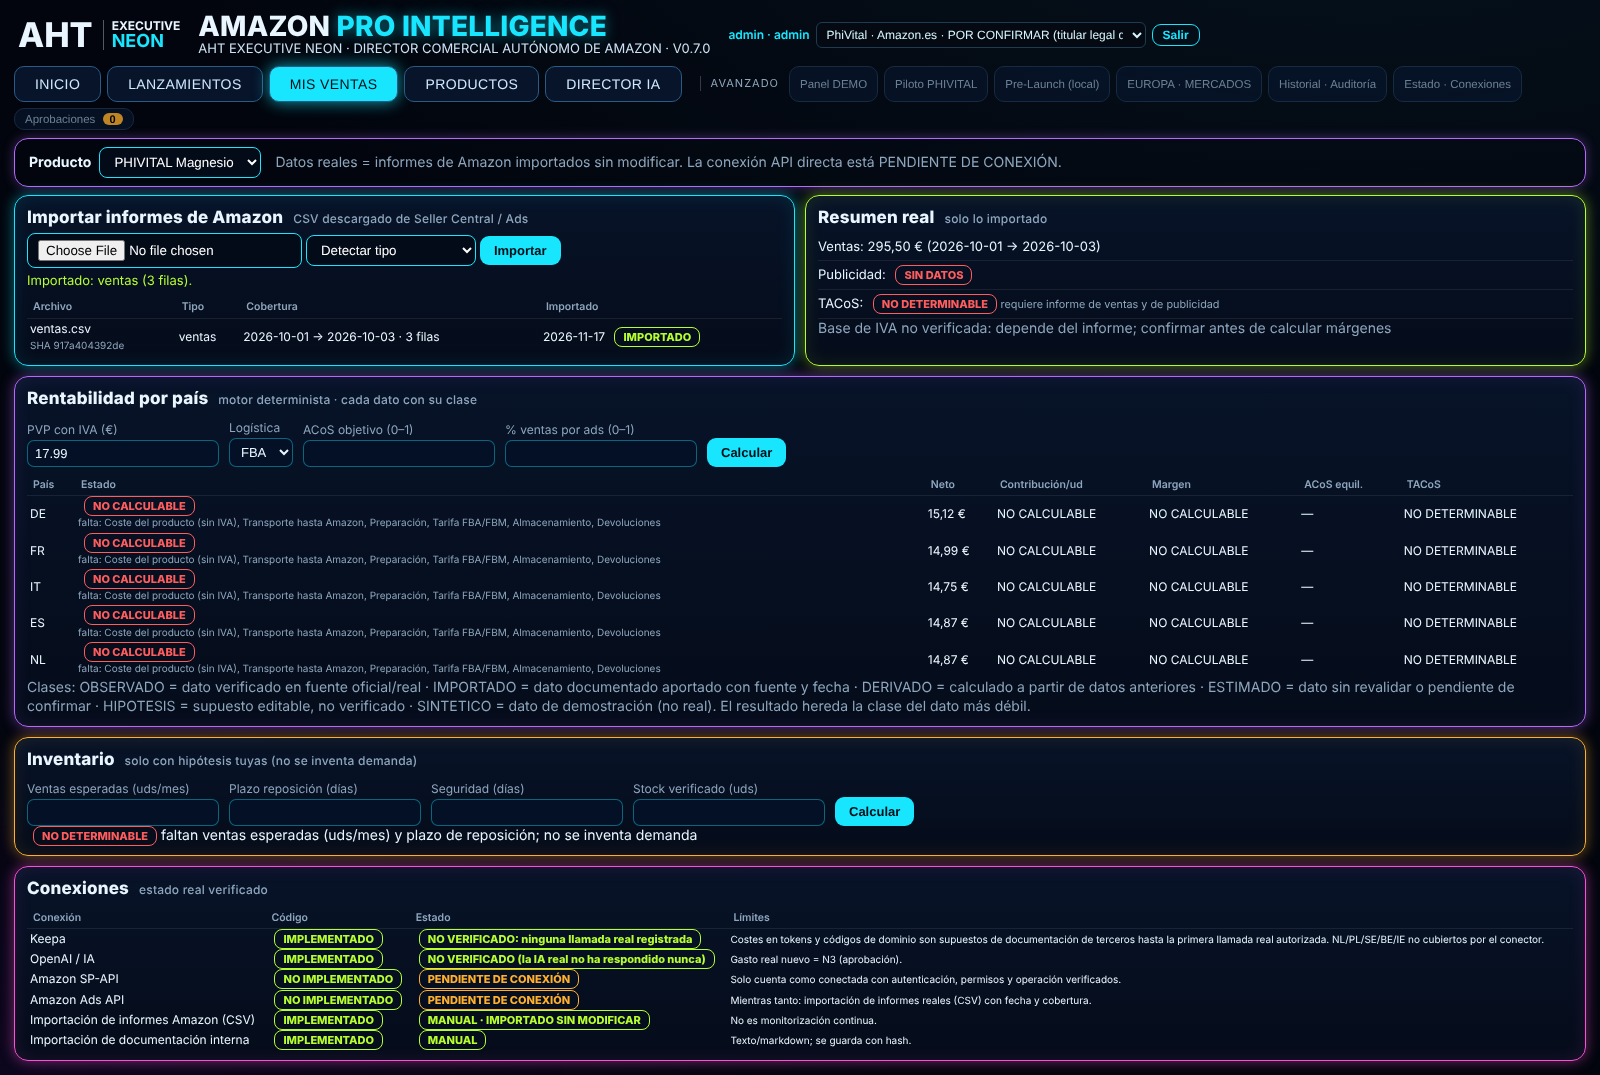
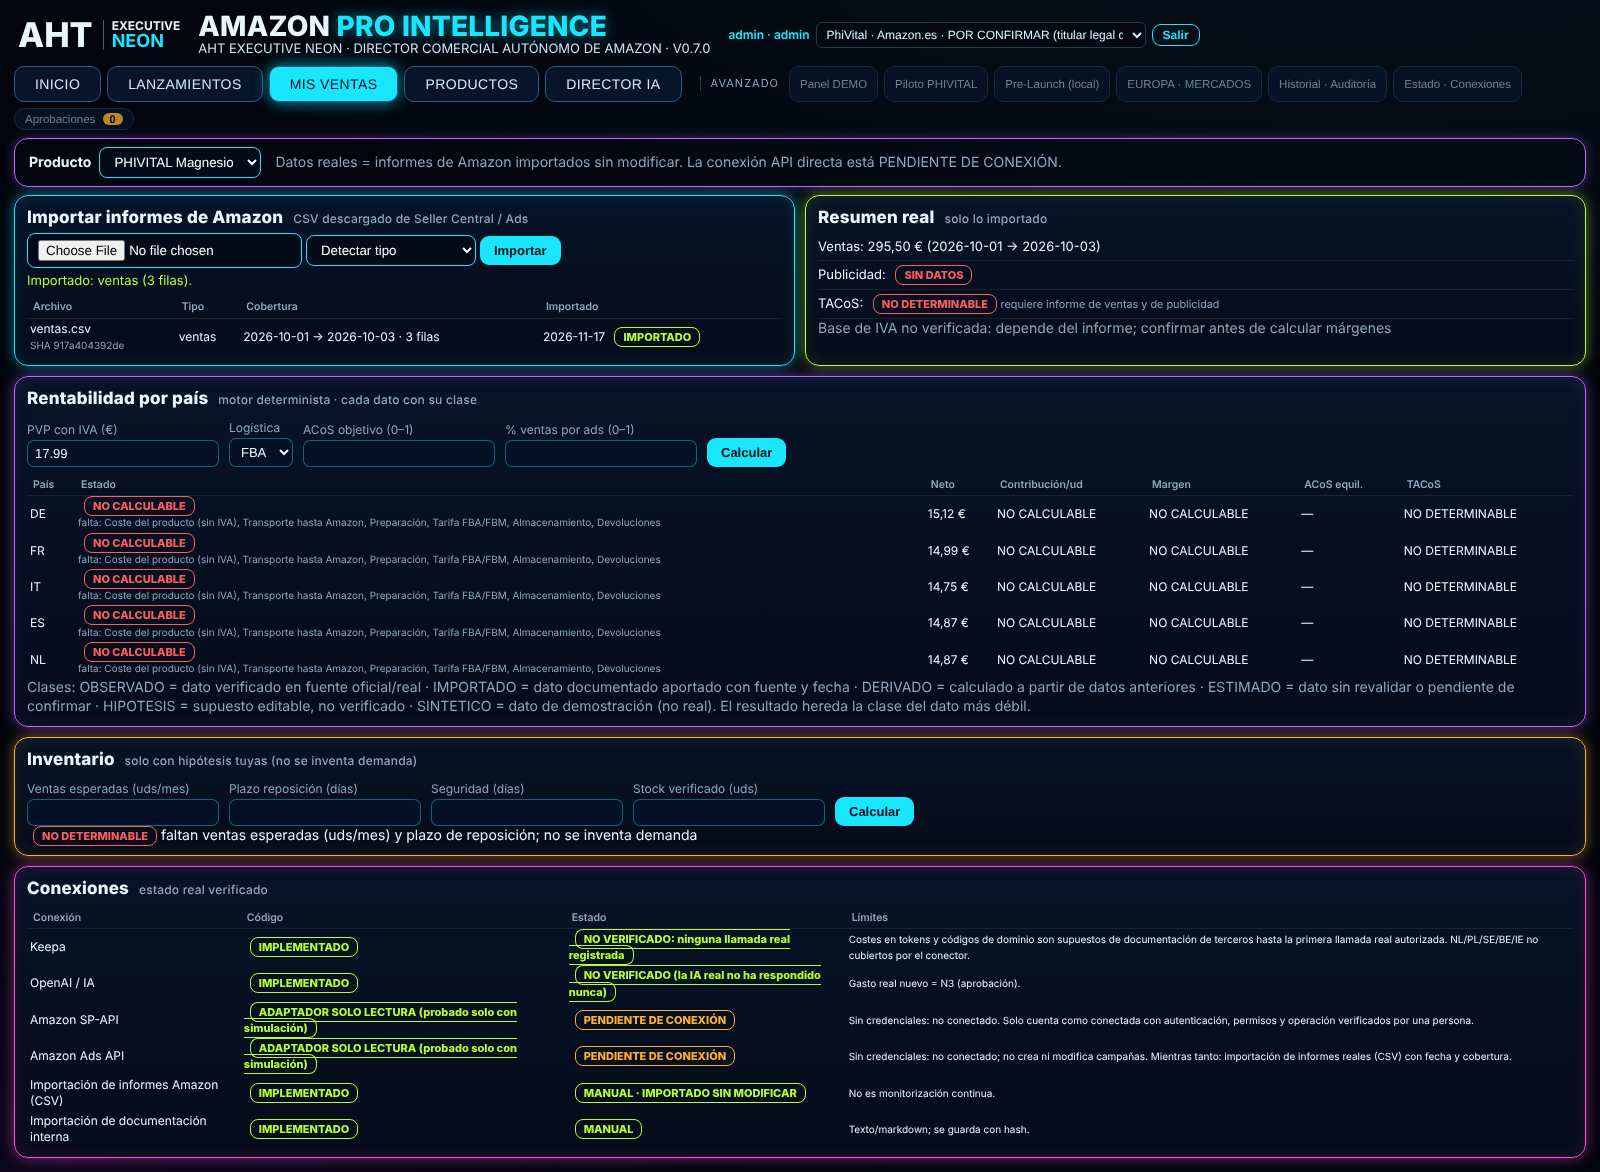
V1-13: adaptadores SP-API y Ads API de solo lectura, probados solo con simulación (16/16)

Changed region(s): [[0.0, 0.0, 1.0, 1.0], [0.8125, 0.3991, 0.8438, 0.4605]]

diff --git a/amazon-pro-intelligence-v0.6.0-validacion-keepa/tests/v100_conectores_test.py b/amazon-pro-intelligence-v0.6.0-validacion-keepa/tests/v100_conectores_test.py
@@ -1,0 +1,43 @@
+"""V1.0 · V1-13 — Adaptadores SP-API / Ads API (solo lectura). Pruebas SIMULADAS (servidor local 127.0.0.1), identificadas como tales. NO prueban conexión real con Amazon."""
+import json, os, socket, sys, threading
+from http.server import BaseHTTPRequestHandler, HTTPServer
+ROOT = os.path.dirname(os.path.dirname(os.path.abspath(__file__))); sys.path.insert(0, ROOT)
+R = []
+def check(n, c): R.append(bool(c)); print(("OK   " if c else "FAIL ") + n)
+_rc = socket.socket.connect; EXT = []
+def _no_net(self, addr, *a, **k):
+    if addr[0] not in ("127.0.0.1", "localhost", "::1"): EXT.append(addr); raise AssertionError("RED PROHIBIDA %r" % (addr,))
+    return _rc(self, addr, *a, **k)
+socket.socket.connect = _no_net
+from backend import conectores100 as C
+VISTO = []
+class H(BaseHTTPRequestHandler):
+    def do_GET(self): VISTO.append((self.command, self.path, self.headers.get("Authorization"))); self.send_response(200); self.send_header("Content-Type", "application/json"); self.end_headers(); self.wfile.write(json.dumps({"simulado": True, "ruta": self.path}).encode())
+    def log_message(self, *a): pass
+srv = HTTPServer(("127.0.0.1", 0), H); threading.Thread(target=srv.serve_forever, daemon=True).start(); base = "http://127.0.0.1:%d" % srv.server_address[1]
+check("sin credenciales: NO CONECTADO, no operativo, dice qué faltan", all(e["estado"] == "NO CONECTADO" and e["operativo"] is False and e["faltan"] for e in C.estados({})))
+FAKE = {v: "FALSO-%d" % i for i, s in enumerate(C.SERVICIOS.values()) for v in s["vars"]}
+st = C.Conector("spapi", FAKE).estado(); check("con credenciales: CONFIGURADO · SIN VERIFICAR, NUNCA operativo", st["estado"].startswith("CONFIGURADO · SIN VERIFICAR") and st["operativo"] is False)
+check("el estado no revela valores de credenciales", "FALSO-" not in json.dumps(C.estados(FAKE)))
+c = C.Conector("spapi", {})
+r = c.get("/orders/v0/orders", {"CreatedAfter": "2026-01-01"}, modo="SIMULADO", base_url=base)
+check("SIMULADO: respuesta marcada origen=SIMULADO, solo lectura, 0 €, aviso 'no proviene de Amazon'", r["origen"] == "SIMULADO" and r["solo_lectura"] and r["coste_eur"] == 0.0 and "no proviene de Amazon" in r["aviso"] and r["datos"]["simulado"])
+check("el servidor simulado solo recibió GET, sin cabecera Authorization", VISTO and all(v[0] == "GET" and v[2] is None for v in VISTO))
+a = C.Conector("ads", {}).get("/v2/profiles", modo="SIMULADO", base_url=base); check("Ads API simulada: perfiles", a["origen"] == "SIMULADO" and a["servicio"] == "Amazon Ads API")
+def falla(fn, frag=""):
+    try: fn(); return False
+    except C.ConectorError as e: return frag in str(e)
+check("ruta fuera de la lista blanca (escritura/otros) rechazada", falla(lambda: c.get("/orders/v0/orders/123/shipment", modo="SIMULADO", base_url=base), "lista blanca") and falla(lambda: C.Conector("ads", {}).get("/sp/campaigns", modo="SIMULADO", base_url=base), "lista blanca"))
+check("ruta absoluta, traversal o sin '/' rechazadas", all(falla(lambda p=p: c.get(p, modo="SIMULADO", base_url=base)) for p in ("http://evil.com/orders/v0/orders", "//evil.com/x", "orders/v0/orders", "/orders/../etc/passwd")))
+check("SIMULADO solo con 127.0.0.1 (otro host rechazado)", falla(lambda: c.get("/orders/v0/orders", modo="SIMULADO", base_url="http://evil.example.com"), "127.0.0.1") and falla(lambda: c.get("/orders/v0/orders", modo="SIMULADO"), "servidor local"))
+check("REAL sin credenciales: imposible", falla(lambda: c.get("/orders/v0/orders", modo="REAL"), "faltan credenciales"))
+check("REAL con credenciales pero sin AMAZON_PRO_LIVE_*=1: desactivado", falla(lambda: C.Conector("spapi", FAKE).get("/orders/v0/orders", modo="REAL"), "desactivada"))
+cap = []
+r2 = C.Conector("spapi", {**FAKE, "AMAZON_PRO_LIVE_SPAPI": "1"}).get("/orders/v0/orders", modo="REAL", transport=lambda url, hdr: cap.append(url) or {"x": 1})
+check("REAL habilitado: URL al host oficial de Amazon por HTTPS (transporte inyectado, SIN red en la prueba)", cap == ["https://sellingpartnerapi-eu.amazon.com/orders/v0/orders"] and r2["origen"] == "REAL" and "sin verificar" in r2["aviso"])
+check("la prueba no contactó ninguna red externa", not EXT)
+check("modo inválido y servicio desconocido rechazados", falla(lambda: c.get("/orders/v0/orders", modo="X")) and falla(lambda: C.Conector("zzz")))
+src = open(os.path.join(ROOT, "backend", "conectores100.py"), encoding="utf-8").read()
+check("el código no contiene verbos de escritura ni credenciales literales", not re.search(r"method=\"(POST|PUT|PATCH|DELETE)\"", src) if (re := __import__("re")) else False)
+check("transporte caído → error controlado", falla(lambda: c.get("/v2/profiles", modo="SIMULADO", base_url="http://127.0.0.1:1"), "transporte") if False else falla(lambda: C.Conector("ads", {}).get("/v2/profiles", modo="SIMULADO", base_url=base, transport=lambda u, h: (_ for _ in ()).throw(OSError("x"))), "transporte"))
+srv.shutdown(); print("%d/%d OK" % (sum(R), len(R))); sys.exit(0 if all(R) else 1)

diff --git a/amazon-pro-intelligence-v0.6.0-validacion-keepa/backend/conectores100.py b/amazon-pro-intelligence-v0.6.0-validacion-keepa/backend/conectores100.py
@@ -1,0 +1,56 @@
+"""V1.0 (V1-13) — Adaptadores de SOLO LECTURA para Amazon SP-API y Amazon Ads API.
+Garantías: credenciales solo desde variables de entorno / ficheros .env locales (nunca en código ni respuestas); 0 € de gasto; solo GET (+ POST únicamente al endpoint de token LWA);
+lista blanca de rutas; modo REAL exige credenciales completas Y la variable AMAZON_PRO_LIVE_<SERVICIO>=1; el modo SIMULADO solo habla con 127.0.0.1 y marca origen='SIMULADO' en cada respuesta.
+Un servicio NUNCA se declara operativo: como máximo 'CONFIGURADO · SIN VERIFICAR' hasta que una persona registre una verificación real."""
+import json, re, urllib.error, urllib.parse, urllib.request
+
+class ConectorError(Exception): pass
+
+SERVICIOS = {
+    "spapi": {"nombre": "Amazon SP-API", "vars": ["AMAZON_PRO_SPAPI_CLIENT_ID", "AMAZON_PRO_SPAPI_CLIENT_SECRET", "AMAZON_PRO_SPAPI_REFRESH_TOKEN"], "hosts": {"sellingpartnerapi-eu.amazon.com"},
+              "token_url": "https://api.amazon.com/auth/o2/token", "rutas": [r"^/orders/v0/orders$", r"^/fba/inventory/v1/summaries$", r"^/catalog/2022-04-01/items(/[A-Z0-9]{10})?$", r"^/reports/2021-06-30/reports(/[A-Za-z0-9\-]+)?$"], "live": "AMAZON_PRO_LIVE_SPAPI"},
+    "ads": {"nombre": "Amazon Ads API", "vars": ["AMAZON_PRO_ADS_CLIENT_ID", "AMAZON_PRO_ADS_CLIENT_SECRET", "AMAZON_PRO_ADS_REFRESH_TOKEN"], "hosts": {"advertising-api-eu.amazon.com"},
+            "token_url": "https://api.amazon.com/auth/o2/token", "rutas": [r"^/v2/profiles$", r"^/reporting/reports/[A-Za-z0-9\-]+$"], "live": "AMAZON_PRO_LIVE_ADS"},
+}
+LOOP = {"127.0.0.1", "localhost"}
+
+class Conector:
+    def __init__(self, svc, environ=None):
+        if svc not in SERVICIOS: raise ConectorError("servicio desconocido")
+        self.svc, self.d = svc, SERVICIOS[svc]; self.env = environ if environ is not None else {}
+    def faltan(self): return [v for v in self.d["vars"] if not str(self.env.get(v, "")).strip()]
+    def estado(self):
+        f = self.faltan()
+        if f: return {"servicio": self.d["nombre"], "estado": "NO CONECTADO", "faltan": f, "operativo": False, "nota": "Sin credenciales. Se guardan en un fichero .env local, nunca en GitHub, Drive ni chat."}
+        live = str(self.env.get(self.d["live"], "")) == "1"
+        return {"servicio": self.d["nombre"], "estado": "CONFIGURADO · SIN VERIFICAR" + ("" if live else " · LECTURA REAL DESACTIVADA"), "faltan": [], "operativo": False, "nota": "Solo una prueba real registrada por una persona permite llamarlo operativo."}
+    def _ruta_ok(self, path):
+        return any(re.match(p, path) for p in self.d["rutas"])
+    def get(self, path, params=None, modo="SIMULADO", base_url=None, transport=None):
+        if modo not in ("SIMULADO", "REAL"): raise ConectorError("modo inválido")
+        u = urllib.parse.urlsplit(path)
+        if u.scheme or u.netloc or ".." in path or not path.startswith("/"): raise ConectorError("ruta no permitida")
+        if not self._ruta_ok(u.path): raise ConectorError("ruta fuera de la lista blanca de solo lectura")
+        if modo == "REAL":
+            if self.faltan(): raise ConectorError("modo REAL imposible: faltan credenciales")
+            if str(self.env.get(self.d["live"], "")) != "1": raise ConectorError("lectura REAL desactivada (%s != 1)" % self.d["live"])
+            host = sorted(self.d["hosts"])[0]; url = "https://%s%s" % (host, u.path)
+        else:
+            if not base_url: raise ConectorError("modo SIMULADO requiere un servidor local")
+            bu = urllib.parse.urlsplit(base_url)
+            if bu.hostname not in LOOP: raise ConectorError("el modo SIMULADO solo puede usar 127.0.0.1")
+            url = base_url.rstrip("/") + u.path
+        if params: url += "?" + urllib.parse.urlencode({str(k)[:40]: str(v)[:200] for k, v in list(params.items())[:10]})
+        hdr = {"Accept": "application/json", "User-Agent": "AHT-AmazonPro/1.0 (solo lectura)"}
+        try:
+            body = (transport or self._http)(url, hdr)
+        except (urllib.error.URLError, OSError, ValueError) as e:
+            raise ConectorError("fallo de transporte: %s" % type(e).__name__)
+        return {"origen": modo, "servicio": self.d["nombre"], "solo_lectura": True, "coste_eur": 0.0, "datos": body, "aviso": "SIMULADO: no proviene de Amazon" if modo == "SIMULADO" else "Dato real de solo lectura, sin verificar por una persona"}
+    @staticmethod
+    def _http(url, hdr):
+        rq = urllib.request.Request(url, headers=hdr, method="GET")
+        with urllib.request.urlopen(rq, timeout=15) as r: return json.loads(r.read(2_000_000).decode("utf-8"))
+
+def estados(environ=None):
+    return [Conector(s, environ).estado() for s in SERVICIOS]

diff --git a/amazon-pro-intelligence-v0.6.0-validacion-keepa/tools/ficha_v100.py b/amazon-pro-intelligence-v0.6.0-validacion-keepa/tools/ficha_v100.py
@@ -4,8 +4,8 @@ ROOT = os.path.dirname(os.path.dirname(os.path.abspath(__file__)))
 FICHA = [  # integración, estado hoy, credencial (dónde se guarda, sin valor), permiso/alcance mínimo, acción del propietario, coste, cómo se verificará
  ("Keepa /product y DE/FR/IT/UK", "BLOQUEADA (sin clave; solo ES /search verificado)", "keepa.env local: AMAZON_PRO_KEEPA_KEY (fichero en tu PC, fuera de GitHub/Drive)", "Solo lectura; tope por consulta", "Entregar la clave en keepa.env y autorizar un tope de tokens", "Tokens Keepa (tú decides el tope)", "/token (gratis) y 1 consulta acotada"),
  ("OpenAI (IA generativa)", "BLOQUEADA (API de pago no autorizada)", "ai.env local: OPENAI_API_KEY", "Modelo y tope mensual en € fijados en la política N3", "Autorizar gasto máximo mensual y crear la clave", "€ por uso (tope que fijes)", "1 llamada mínima con tope y registro en ModelGate"),
- ("Amazon SP-API (pedidos, inventario, catálogo)", "SIN ADAPTADOR TODAVÍA (objetivo V1-13) · NO CONECTADO", "sp_api.env local: client id, client secret, refresh token (no se piden por chat)", "Solo lectura (pedidos, inventario, informes)", "Registrar la app en Seller Central y autorizarla en solo lectura", "0 € (API gratuita)", "Llamada de solo lectura a un endpoint de sandbox/producción sin escritura"),
- ("Amazon Ads API", "SIN ADAPTADOR TODAVÍA (objetivo V1-13) · NO CONECTADO", "ads.env local: client id, client secret, refresh token", "Solo lectura de informes; sin crear ni modificar campañas", "Solicitar acceso a la Ads API y autorizar el perfil", "0 € (API gratuita; el gasto publicitario no se toca)", "Listar perfiles (solo lectura)"),
+ ("Amazon SP-API (pedidos, inventario, catálogo)", "ADAPTADOR SOLO LECTURA IMPLEMENTADO (probado solo con simulación local) · NO CONECTADO", "sp_api.env local: client id, client secret, refresh token (no se piden por chat)", "Solo lectura (pedidos, inventario, informes)", "Registrar la app en Seller Central y autorizarla en solo lectura", "0 € (API gratuita)", "Llamada de solo lectura a un endpoint de sandbox/producción sin escritura"),
+ ("Amazon Ads API", "ADAPTADOR SOLO LECTURA IMPLEMENTADO (probado solo con simulación local) · NO CONECTADO", "ads.env local: client id, client secret, refresh token", "Solo lectura de informes; sin crear ni modificar campañas", "Solicitar acceso a la Ads API y autorizar el perfil", "0 € (API gratuita; el gasto publicitario no se toca)", "Listar perfiles (solo lectura)"),
  ("Windows (ejecución del servidor y la UI)", "NO VERIFICADO (la sesión es Linux)", "—", "—", "Ejecutar python server.py en tu PC y lanzar tests/run_all.sh equivalente; enviar el resultado", "0 €", "Salida de las pruebas en tu Windows"),
  ("Costes, precio objetivo y ventas reales", "SIN DATOS", "—", "—", "Sergio/José: aportar costes y precio objetivo por producto (ficha del producto)", "0 €", "Motor económico pasa de NO CALCULABLE a CALCULADO"),
  ("Evidencia regulatoria cosmética ACTIVCORE", "SIN EVIDENCIA", "—", "—", "Laboratorios Klein / responsable: informe de seguridad, PIF, notificación CPNP", "según proveedor", "Registro de claims pasa de PENDIENTE_EVIDENCIA"),

diff --git a/amazon-pro-intelligence-v0.6.0-validacion-keepa/backend/api6.py b/amazon-pro-intelligence-v0.6.0-validacion-keepa/backend/api6.py
@@ -92,8 +92,8 @@ def connections(APP):
         {"name": "Keepa", "code": "IMPLEMENTADO", "configured": bool(kst.get("configured", kst.get("enabled"))), "real_calls_logged": kl, "state": "REAL VERIFICADO (PARCIAL)" if realsearch else ("REAL VERIFICADO" if kl else "NO VERIFICADO: ninguna llamada real registrada"),
          "limits": ("Verificado con llamada real: /token gratuito, /search = %d tokens (dominio ES = 9 en amazon.es). SIN verificar: coste real de /product por ASIN, códigos de DE/FR/IT/UK, ratings y vendedor. NL/PL/SE/BE/IE no cubiertos." % realsearch) if realsearch else "Costes en tokens y códigos de dominio son supuestos de documentación de terceros hasta la primera llamada real autorizada. NL/PL/SE/BE/IE no cubiertos por el conector."},
         {"name": "OpenAI / IA", "code": "IMPLEMENTADO", "configured": ai.get("status"), "real_verified": bool(st.real_ai_verified()), "state": "REAL VERIFICADO" if st.real_ai_verified() else "NO VERIFICADO (la IA real no ha respondido nunca)", "limits": "Gasto real nuevo = N3 (aprobación)."},
-        {"name": "Amazon SP-API", "code": "NO IMPLEMENTADO", "state": "PENDIENTE DE CONEXIÓN", "limits": "Solo cuenta como conectada con autenticación, permisos y operación verificados."},
-        {"name": "Amazon Ads API", "code": "NO IMPLEMENTADO", "state": "PENDIENTE DE CONEXIÓN", "limits": "Mientras tanto: importación de informes reales (CSV) con fecha y cobertura."},
+        {"name": "Amazon SP-API", "code": "ADAPTADOR SOLO LECTURA (probado solo con simulación)", "state": "PENDIENTE DE CONEXIÓN", "limits": "Sin credenciales: no conectado. Solo cuenta como conectada con autenticación, permisos y operación verificados por una persona."},
+        {"name": "Amazon Ads API", "code": "ADAPTADOR SOLO LECTURA (probado solo con simulación)", "state": "PENDIENTE DE CONEXIÓN", "limits": "Sin credenciales: no conectado; no crea ni modifica campañas. Mientras tanto: importación de informes reales (CSV) con fecha y cobertura."},
         {"name": "Importación de informes Amazon (CSV)", "code": "IMPLEMENTADO", "reports": len(APP["imp"].reports()), "state": "MANUAL · IMPORTADO SIN MODIFICAR", "limits": "No es monitorización continua."},
         {"name": "Importación de documentación interna", "code": "IMPLEMENTADO", "state": "MANUAL", "limits": "Texto/markdown; se guarda con hash."}]}
 

diff --git a/amazon-pro-intelligence-v0.6.0-validacion-keepa/FICHA_INTEGRACIONES_V100.md b/amazon-pro-intelligence-v0.6.0-validacion-keepa/FICHA_INTEGRACIONES_V100.md
@@ -22,7 +22,7 @@ No se pide ningún secreto por chat: las credenciales se guardan en ficheros loc
 
 ## Amazon SP-API (pedidos, inventario, catálogo)
 
-- **Estado hoy:** SIN ADAPTADOR TODAVÍA (objetivo V1-13) · NO CONECTADO
+- **Estado hoy:** ADAPTADOR SOLO LECTURA IMPLEMENTADO (probado solo con simulación local) · NO CONECTADO
 - **Credencial (dónde, sin valor):** sp_api.env local: client id, client secret, refresh token (no se piden por chat)
 - **Permiso mínimo:** Solo lectura (pedidos, inventario, informes)
 - **Acción que debes autorizar:** Registrar la app en Seller Central y autorizarla en solo lectura
@@ -31,7 +31,7 @@ No se pide ningún secreto por chat: las credenciales se guardan en ficheros loc
 
 ## Amazon Ads API
 
-- **Estado hoy:** SIN ADAPTADOR TODAVÍA (objetivo V1-13) · NO CONECTADO
+- **Estado hoy:** ADAPTADOR SOLO LECTURA IMPLEMENTADO (probado solo con simulación local) · NO CONECTADO
 - **Credencial (dónde, sin valor):** ads.env local: client id, client secret, refresh token
 - **Permiso mínimo:** Solo lectura de informes; sin crear ni modificar campañas
 - **Acción que debes autorizar:** Solicitar acceso a la Ads API y autorizar el perfil
